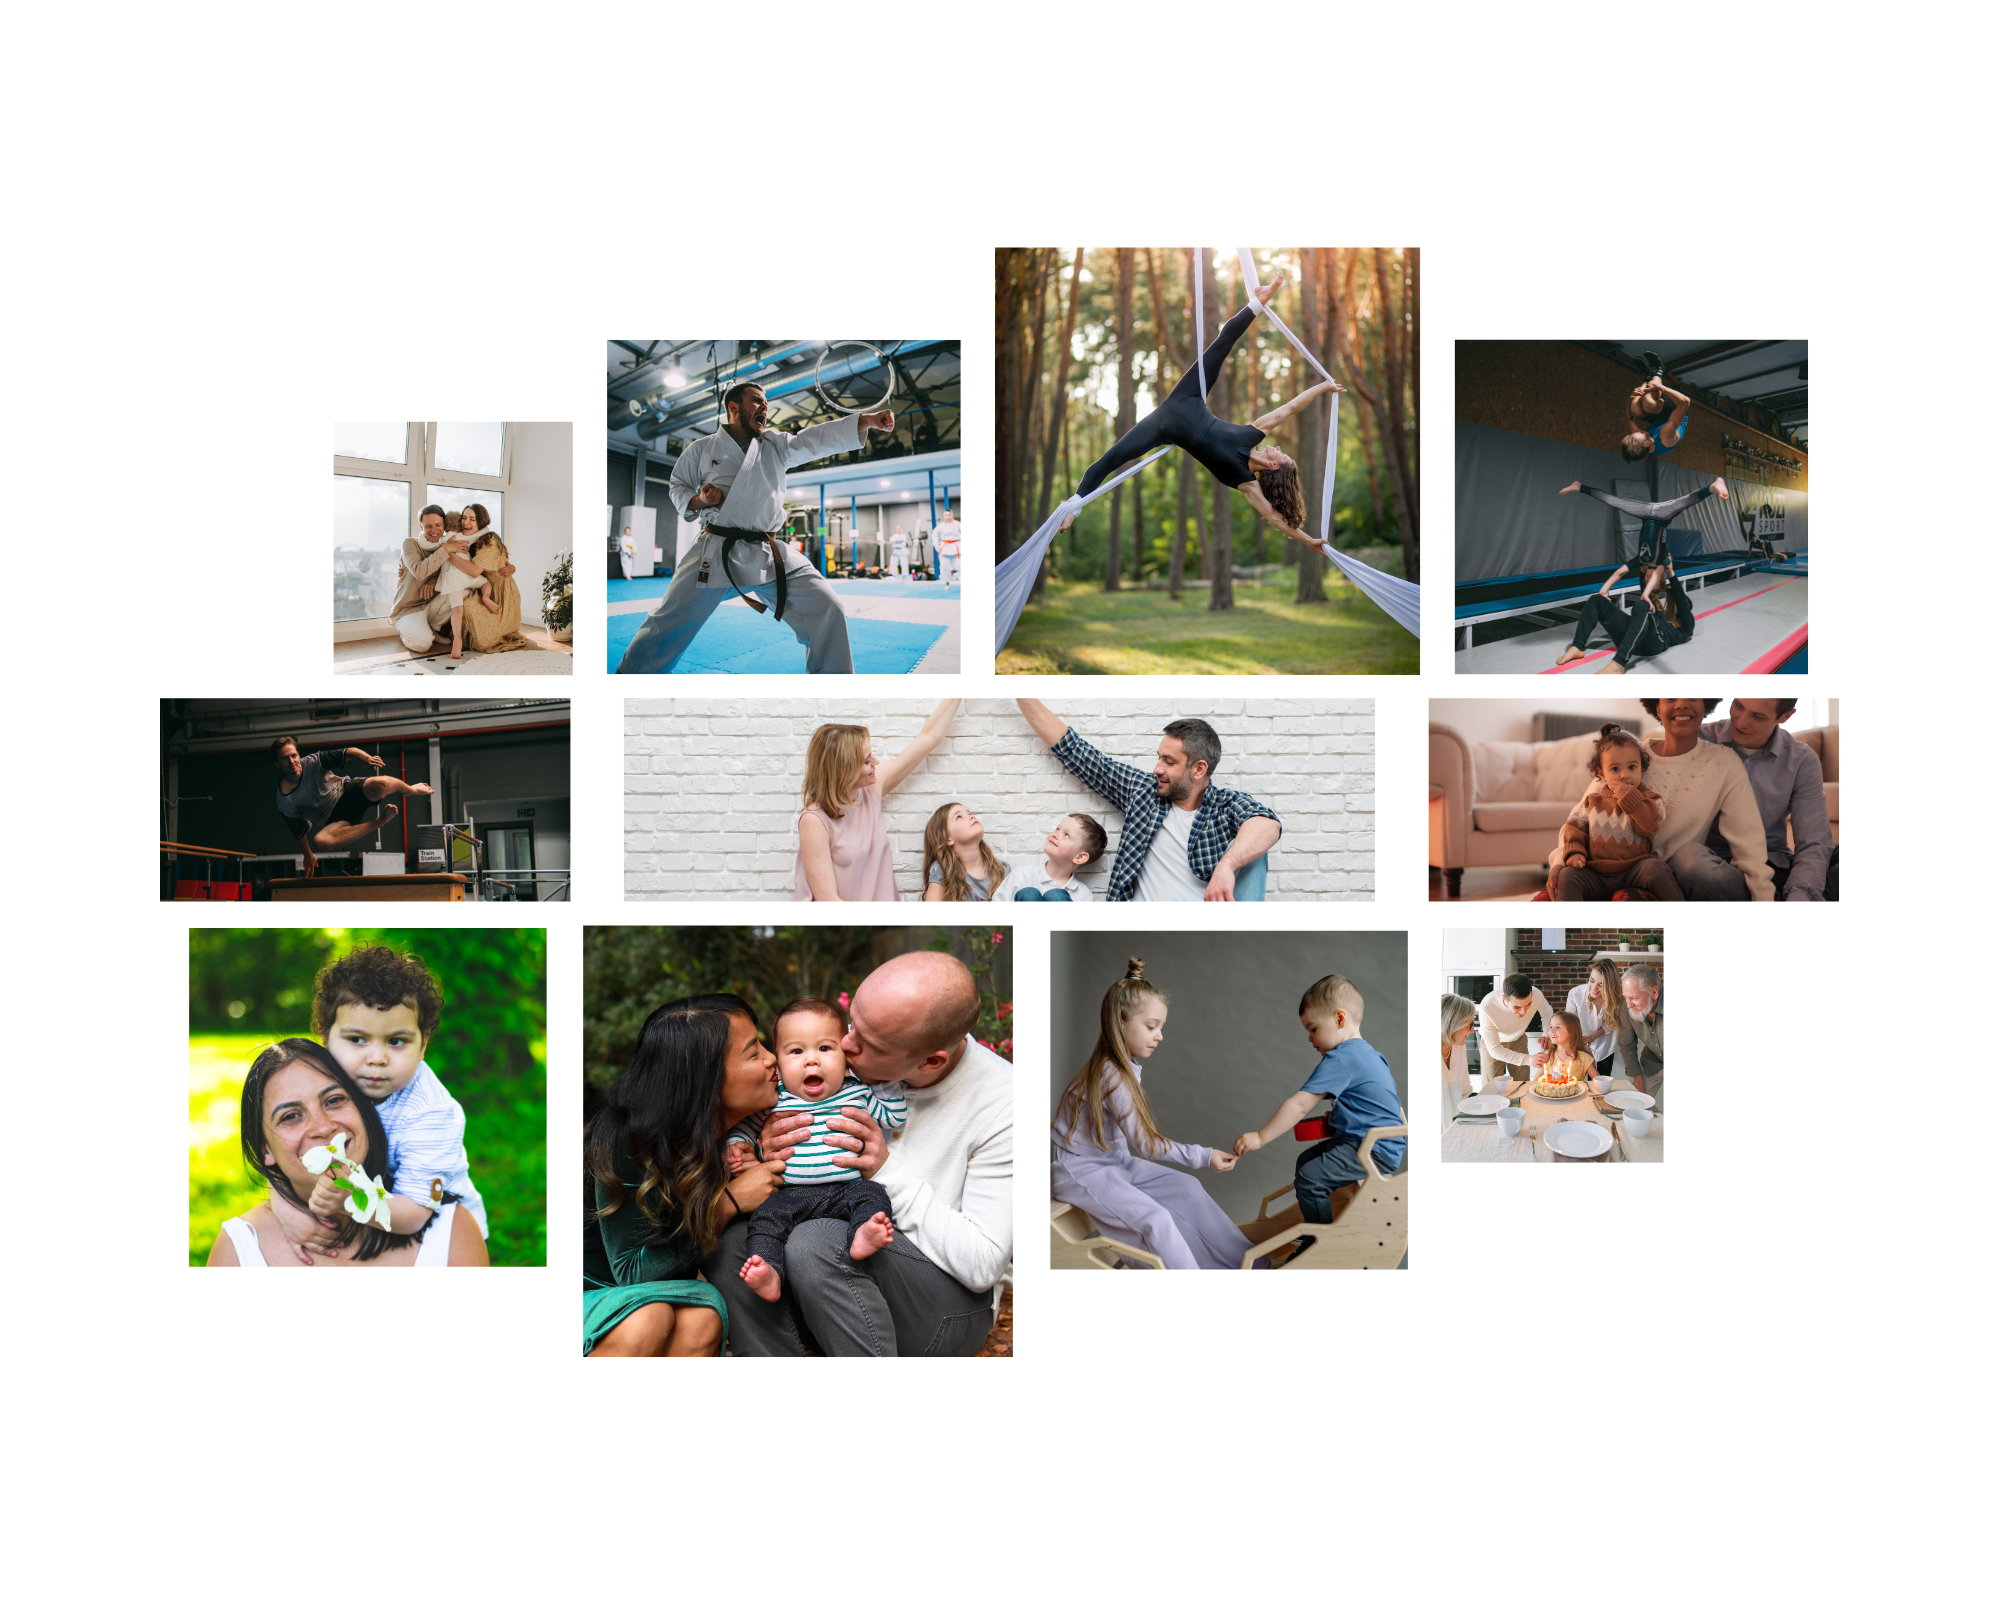
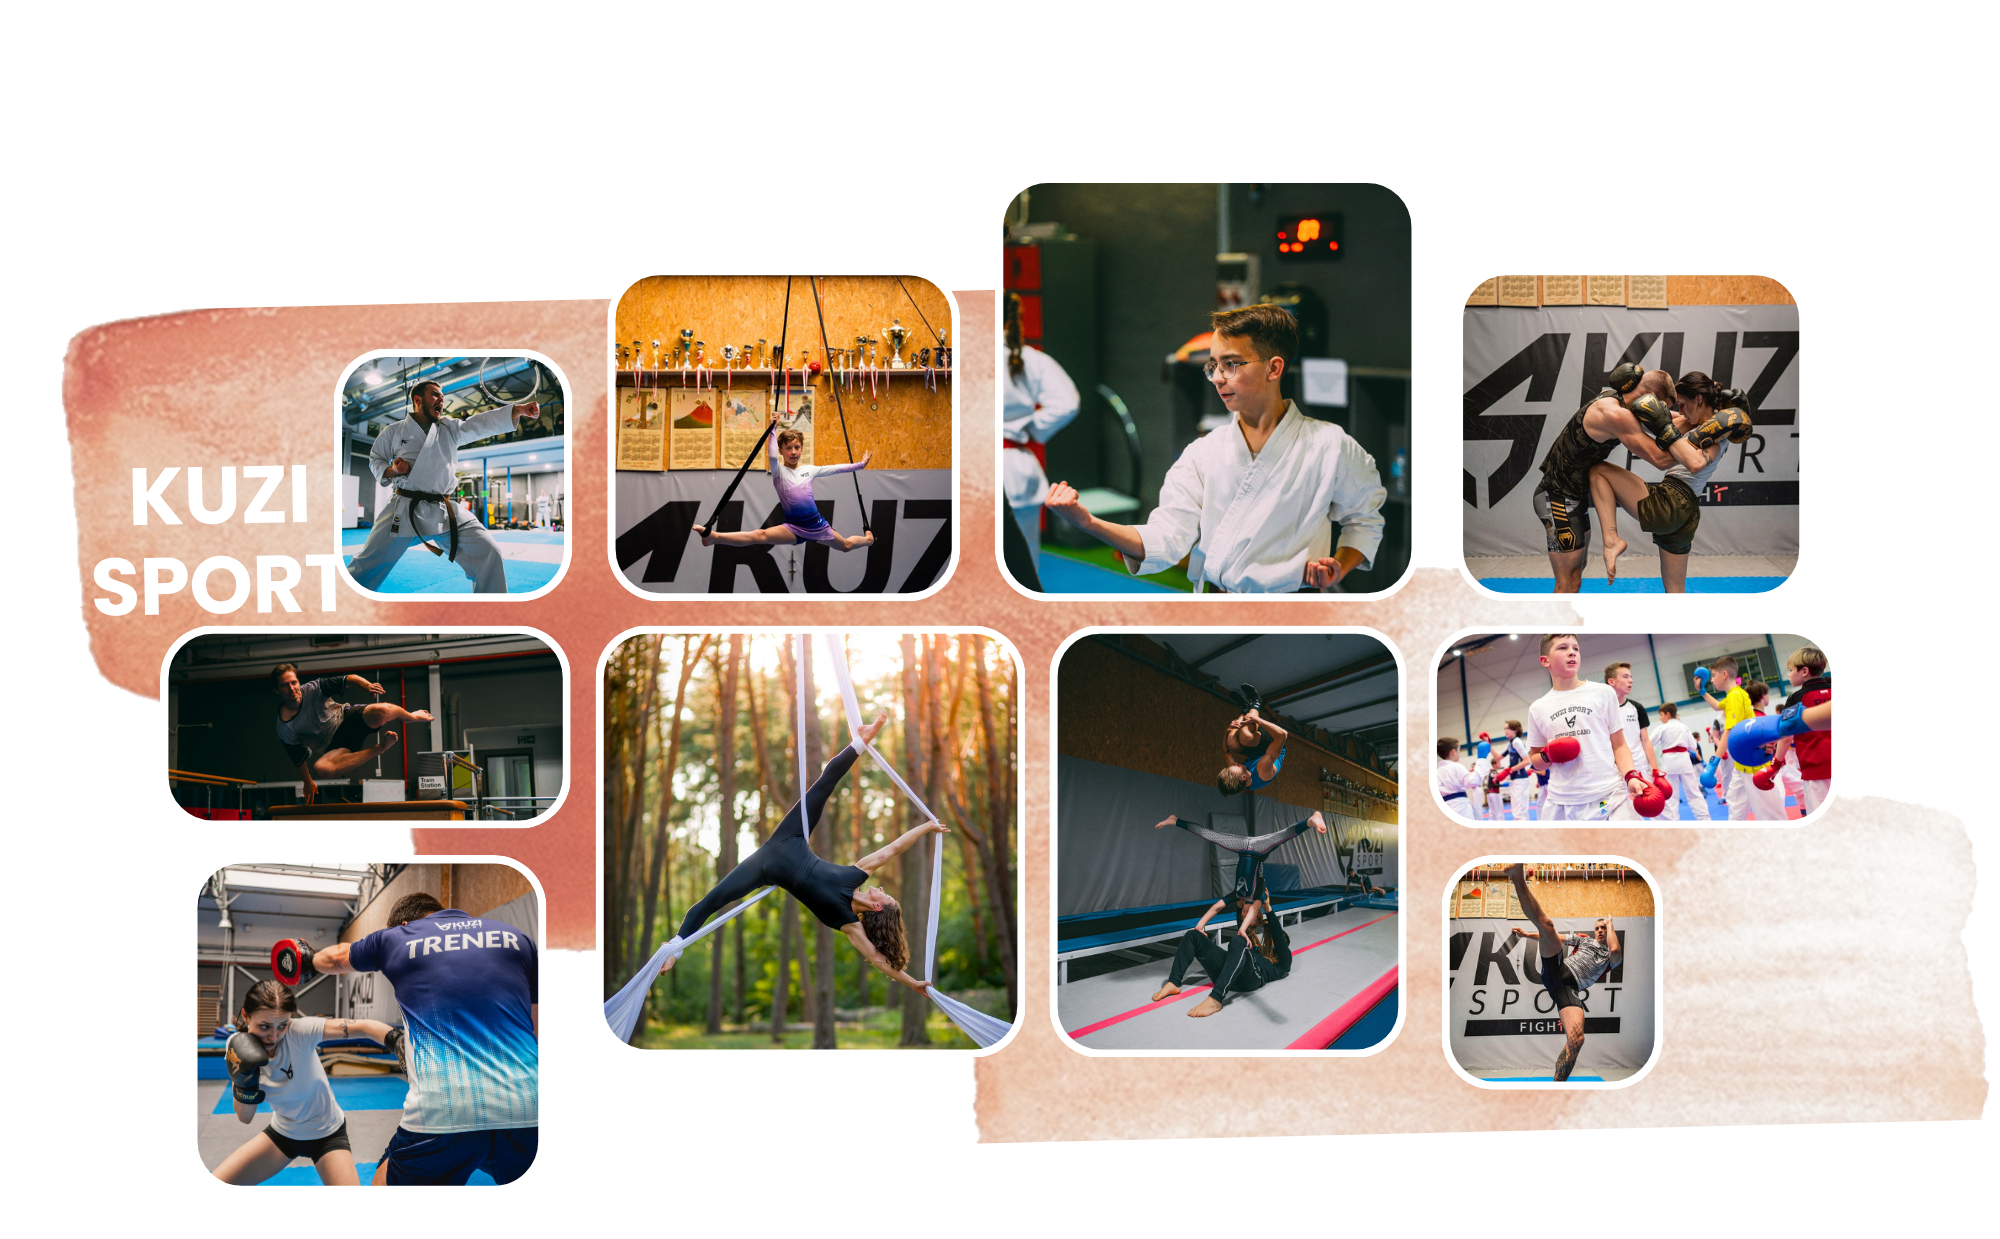
changed headers image

diff --git a/src/components/Header/Header.scss b/src/components/Header/Header.scss
@@ -1,26 +1,29 @@
 :root {
   --brand-green: #3da575;
-  --cta-green: #2e7d57;
-  --cta-green-hover: #276b49;
+  --cta-green: #808080;
+  --cta-green-hover: #a2a2a2;
   --slide-overlay: rgba(0, 0, 0, 0.35);
 }
 
+/* HERO / SLIDER --------------------------------------------------------- */
 .slider {
+  /* height = viewport minus fixed navbar height */
+  --nav-h: 0rem;
+
   position: relative;
   overflow: hidden;
   width: 100%;
-  background: #f7f7f7;
+  background: #fff;
   flex-grow: 1;
   display: flex;
-  height: 100svh;
-  padding-top: 6rem;
+
+  height: calc(100svh - var(--nav-h));
+  padding-top: 0;                 /* no padding hack */
   box-sizing: border-box;
 }
 
 @supports (height: 100dvh) {
-  .slider {
-    height: 100dvh;
-  }
+  .slider { height: calc(110dvh - var(--nav-h)); }
 }
 
 .slides {
@@ -34,28 +37,28 @@
   display: flex;
   align-items: center;
   height: 100%;
-  background-position: center;
-  background-repeat: no-repeat;
-  background-size: cover;
   position: relative;
-  isolation: isolate;
+  isolation: isolate; /* text over image/overlay */
 }
 
+/* overlay above the image, below the text */
 .slide::before {
   content: "";
   position: absolute;
   inset: 0;
-  z-index: 0;
+  z-index: 1;
   pointer-events: none;
 }
 
+/* TEXT BLOCK ------------------------------------------------------------ */
 .slide__text {
+  z-index: 2;                 /* above overlay and image */
   flex: 0 0 40%;
   max-width: 40%;
-  padding: 0 2rem 0 4rem;
+  padding: 0 2rem;            /* keep some right padding */
+  margin-left: clamp(3rem, 8vw, 10rem);
   transform: translateY(clamp(2rem, 8vh, 10rem));
   will-change: transform;
-  z-index: 1;
   container-type: inline-size;
 }
 
@@ -64,14 +67,12 @@
   line-height: 0.95;
   letter-spacing: -0.02em;
   text-wrap: balance;
-  color: #f7f7f7;
+  color: #087457;
   margin: 0 0 1rem;
 }
 
 @supports not (font-size: 1cqw) {
-  .slide__text h1 {
-    font-size: clamp(2.5rem, 7vw, 5rem);
-  }
+  .slide__text h1 { font-size: clamp(2.5rem, 7vw, 5rem); }
 }
 
 p {
@@ -98,18 +99,15 @@ p {
 }
 
 .slide__cta:hover,
-.slide__cta:focus-visible {
-  background-color: var(--cta-green-hover);
-}
+.slide__cta:focus-visible { background-color: var(--cta-green-hover); }
 
-.slide__cta:active {
-  transform: translateY(1px);
-}
+.slide__cta:active { transform: translateY(1px); }
 
+/* DOTS ------------------------------------------------------------------ */
 .dots {
   position: absolute;
   bottom: 2rem;
-  z-index: 10;
+  z-index: 3;
   display: flex;
   gap: 1rem;
   left: 50%;
@@ -126,26 +124,18 @@ p {
   cursor: pointer;
   transition: background 0.3s, transform 0.3s, opacity 0.3s;
 }
+.dot:hover { opacity: 1; }
+.dot.active { background: var(--cta-green); transform: scale(1.2); opacity: 1; }
 
-.dot:hover {
-  opacity: 1;
-}
+.slider--single .dots { display: none; }
 
-.dot.active {
-  background: var(--cta-green);
-  transform: scale(1.2);
-  opacity: 1;
-}
-
-.slider--single .dots {
-  display: none;
-}
-
+/* RESPONSIVE ------------------------------------------------------------ */
 @media (max-width: 1024px) {
   .slide__text {
     flex-basis: 60%;
     max-width: 60%;
     padding: 0 2rem;
+    margin-left: clamp(1.5rem, 6vw, 5rem);
     transform: translateY(clamp(1.5rem, 6vh, 6rem));
   }
 
@@ -156,7 +146,11 @@ p {
 
 @media (max-width: 768px) {
   .slider {
-    padding-top: 5rem;
+    --nav-h: 5rem;                   /* mobile header height */
+    height: calc(100svh - var(--nav-h));
+  }
+  @supports (height: 100dvh) {
+    .slider { height: calc(100dvh - var(--nav-h)); }
   }
 
   .slide {
@@ -168,6 +162,7 @@ p {
     flex-basis: auto;
     max-width: 100%;
     padding: 0;
+    margin-left: 0;                    /* centered on mobile */
     text-align: center;
     display: flex;
     flex-direction: column;
@@ -180,7 +175,5 @@ p {
     line-height: 1;
   }
 
-  .dots {
-    bottom: 3rem;
-  }
+  .dots { bottom: 3rem; }
 }

diff --git a/src/components/Header/Header.tsx b/src/components/Header/Header.tsx
@@ -1,25 +1,20 @@
 "use client";
 
-import { useState, Fragment } from "react";
+import { useState } from "react";
 import Link from "next/link";
+import Image, { StaticImageData } from "next/image";
+import MosaicHeader from "../../../public/Header/MosaicHeader.png";
 import "./Header.scss";
 
 interface Slide {
-  titleLines: string[];
   cta: { label: string; href: string };
-  img: { src: string; alt: string; width: number; height: number };
+  img: { src: StaticImageData; alt: string };
 }
 
 const slides: Slide[] = [
   {
-    titleLines: ["Kuzi", "Sport"],
     cta: { label: "Sprawdź", href: "/AboutFoundation" },
-    img: {
-      src: "/Header/MosaicHeader.png",
-      alt: "z",
-      width: 1600,
-      height: 1067,
-    },
+    img: { src: MosaicHeader, alt: "Kuzi Sport – mozaika zdjęć" },
   },
 ];
 
@@ -40,19 +35,22 @@ export default function HeroSlider() {
           <div
             className="slide"
             key={`slide-${i}`}
-            style={{ backgroundImage: `url(${s.img.src})` }}
             aria-label={s.img.alt}
             role="img"
           >
-            <div className="slide__text">
-              <h1>
-                {s.titleLines.map((line, li) => (
-                  <Fragment key={`line-${i}-${li}`}>
-                    <span>{line}</span>
-                    {li < s.titleLines.length - 1 && <br />}
-                  </Fragment>
-                ))}
-              </h1>
+            <Image
+              src={s.img.src}
+              alt={s.img.alt}
+              fill
+              priority={i === 0}
+              quality={90}
+              placeholder="blur"
+              sizes="100vw"
+              style={{ objectFit: "contain", objectPosition: "center top" }}
+            />
+
+            {/* CTA only */}
+            <div className="slide__text slide__text--cta-only">
               <Link href={s.cta.href} className="slide__cta">
                 {s.cta.label}
               </Link>
